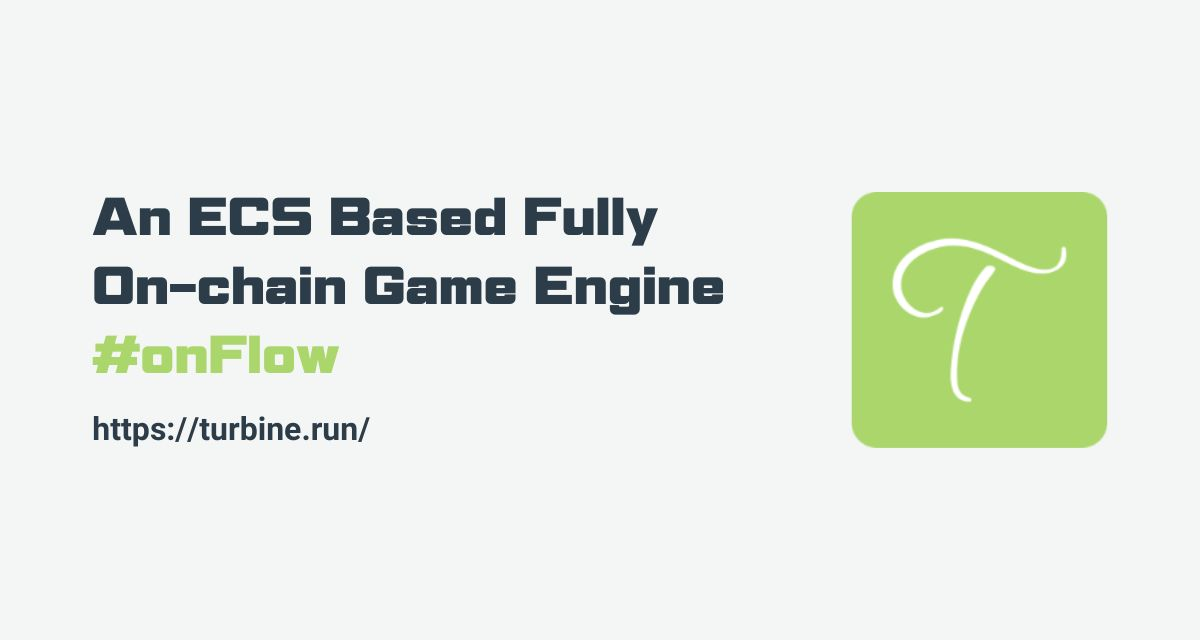
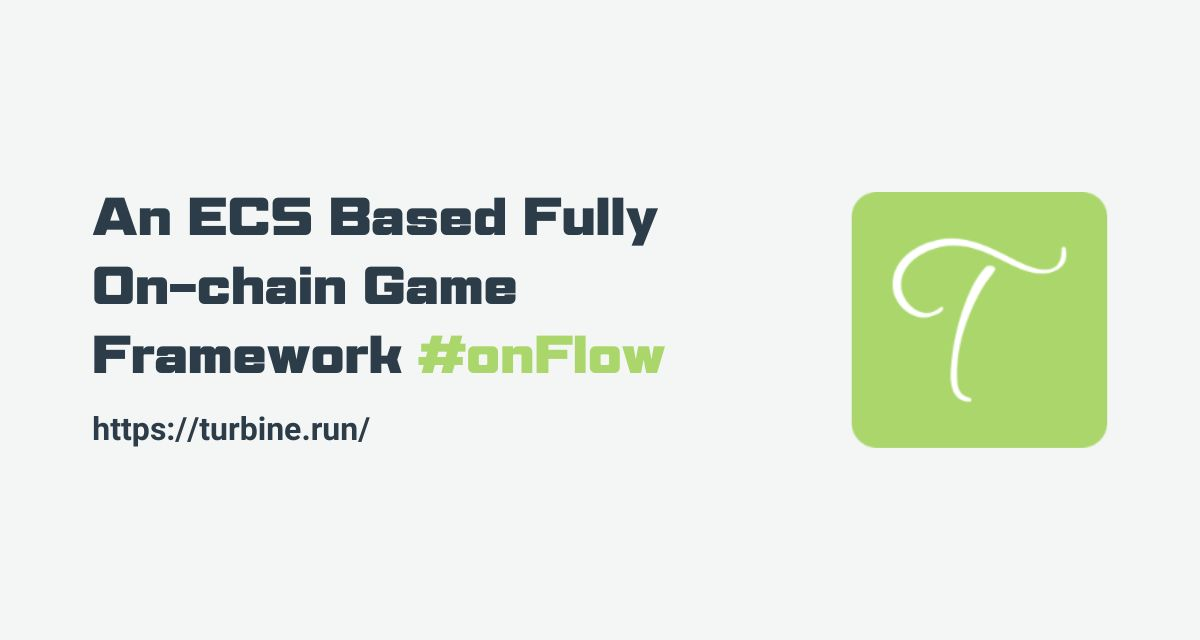
feat: change Engine to Framework

Changed region(s): [[0.0617, 0.4062, 0.6167, 0.5938]]

diff --git a/docs/getting-started/quick-start.md b/docs/getting-started/quick-start.md
@@ -203,7 +203,7 @@ Update your `flow.json` file to add the following data to the proper fields:
 ```
 {% endcode %}
 
-Now you have completed the installation of the Turbine Engine core library.&#x20;
+Now you have completed the installation of the Turbine Framework core library.&#x20;
 
 Let's start building an FOC game!
 
@@ -555,9 +555,9 @@ fun createWorld(
 
 ## FAQ
 
-#### Why should I use the Turbine Engine to build a game?
+#### Why should I use the Turbine to build a game?
 
-First of all, Turbine is a fully on-chain game engine designed based on the ECS concept([Learn more](../#what-is-ecs-architecture)). This means that it always adheres to the core development concept of separating data from logic. It can provide you with good maintainability and scalability when building games, and a good engineering-oriented, easy-to-collaborate development experience.&#x20;
+First of all, Turbine is a fully on-chain game framework designed based on the ECS concept([Learn more](../#what-is-ecs-architecture)). This means that it always adheres to the core development concept of separating data from logic. It can provide you with good maintainability and scalability when building games, and a good engineering-oriented, easy-to-collaborate development experience.&#x20;
 
 When you are developing a game, you just need to think step by step:
 

diff --git a/README.md b/README.md
@@ -1,14 +1,14 @@
-# Turbine - A Cadence Fully On-chain Game Engine with ECS Architecture
+# Turbine - A Cadence Fully On-chain Game Framework with ECS Architecture
 
 [![License](https://img.shields.io/badge/License-MIT-blue.svg)](https://opensource.org/license/mit/)
 
 > Turbine is currently in development, and is not yet ready for production use.
 
-Turbine is a fully on-chain game engine for the [Cadence](https://cadence-lang.org/) programming language on [Flow blockchain](https://flow.com/). It utilizes the Entity Component System (ECS) architecture, providing a flexible and powerful framework for developing a wide range of games.
+Turbine is a fully on-chain game framework for the [Cadence](https://cadence-lang.org/) programming language on [Flow blockchain](https://flow.com/). It utilizes the Entity Component System (ECS) architecture, providing a flexible and powerful framework for developing a wide range of games.
 
 ## Contracts
 
-Turbine is composed of a number of contracts that work together to provide a complete game engine.  
+Turbine is composed of a number of contracts that work together to provide a complete game framework.  
 The core contracts are:
 
 | Contract | Description |

diff --git a/docs/README.md b/docs/README.md
@@ -1,6 +1,6 @@
 # What is Turbine?
 
-[Turbine](https://turbine.run) is an ECS-based fully on-chain game engine for **Cadence** smart contract language on the Flow blockchain. It utilizes the **Entity Component System** (ECS) architecture, providing a flexible and powerful on-chain game logic development framework for various games.
+[Turbine](https://turbine.run) is an ECS-based fully on-chain game framework for **Cadence** smart contract language on the Flow blockchain. It utilizes the **Entity Component System** (ECS) architecture, providing a flexible and powerful on-chain game logic development framework for various games.
 
 ### Why Flow and Cadence?
 

diff --git a/packages/core/README.md b/packages/core/README.md
@@ -1,4 +1,4 @@
-# Core contracts library of Turbine Engine
+# Core contracts library of Turbine Framework
 
 Contracts are deployed here:
 
